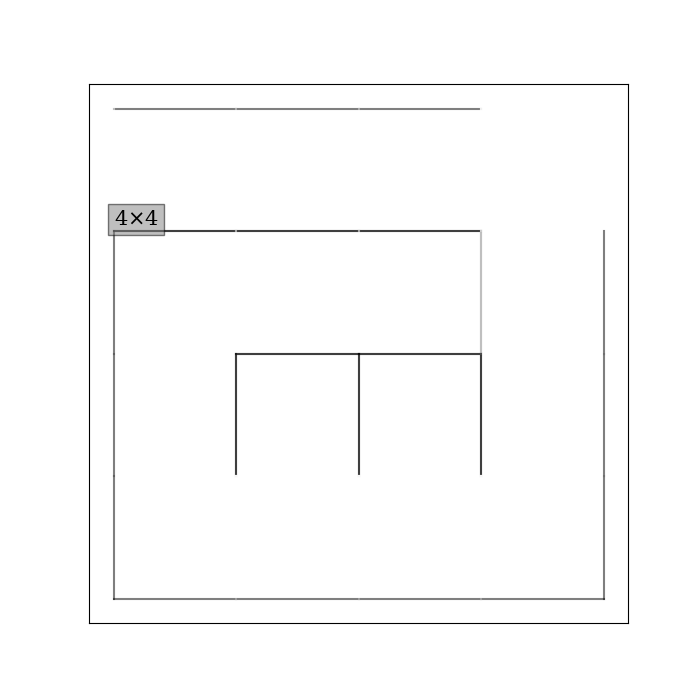
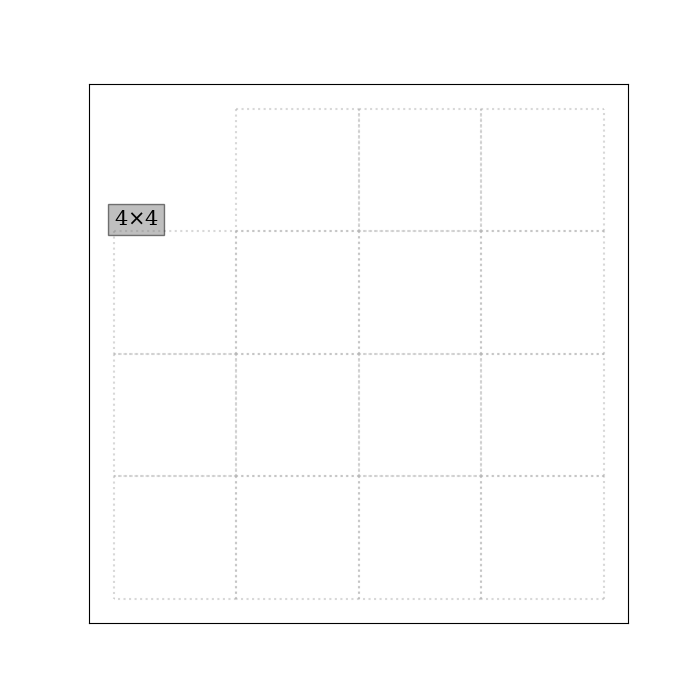
update

diff --git a/Bot_regions_assigned/src-gen/model.py b/Bot_regions_assigned/src-gen/model.py
@@ -459,6 +459,11 @@ class Model:
 			return self.in_event_queue.get()
 		return None
 	
+	def __entry_action_main_region_manual_mode(self):
+		"""Entry action for state 'Manual Mode'..
+		"""
+		self.grid.update = True
+		
 	def __entry_action_main_region_manual_mode_manual_mode_stopped(self):
 		"""Entry action for state 'stopped'..
 		"""
@@ -489,9 +494,15 @@ class Model:
 		self.output.rotation = self.output.rotation + 0.1
 		self.__completed = True
 		
+	def __entry_action_main_region_autonomous_mode___logging_autonomous_mode_drive_autonomously(self):
+		"""Entry action for state 'Drive autonomously'..
+		"""
+		self.grid.update = True
+		
 	def __enter_sequence_main_region_manual_mode_default(self):
 		"""'default' enter sequence for state Manual Mode.
 		"""
+		self.__entry_action_main_region_manual_mode()
 		self.__enter_sequence_main_region_manual_mode_manual_mode_default()
 		
 	def __enter_sequence_main_region_manual_mode_manual_mode_stopped_default(self):
@@ -543,6 +554,7 @@ class Model:
 	def __enter_sequence_main_region_autonomous_mode___logging_autonomous_mode_drive_autonomously_default(self):
 		"""'default' enter sequence for state Drive autonomously.
 		"""
+		self.__entry_action_main_region_autonomous_mode___logging_autonomous_mode_drive_autonomously()
 		self.__state_vector[0] = self.State.main_region_autonomous_mode___logging_autonomous_mode_drive_autonomously
 		self.__state_conf_vector_position = 0
 		self.__state_conf_vector_changed = True
